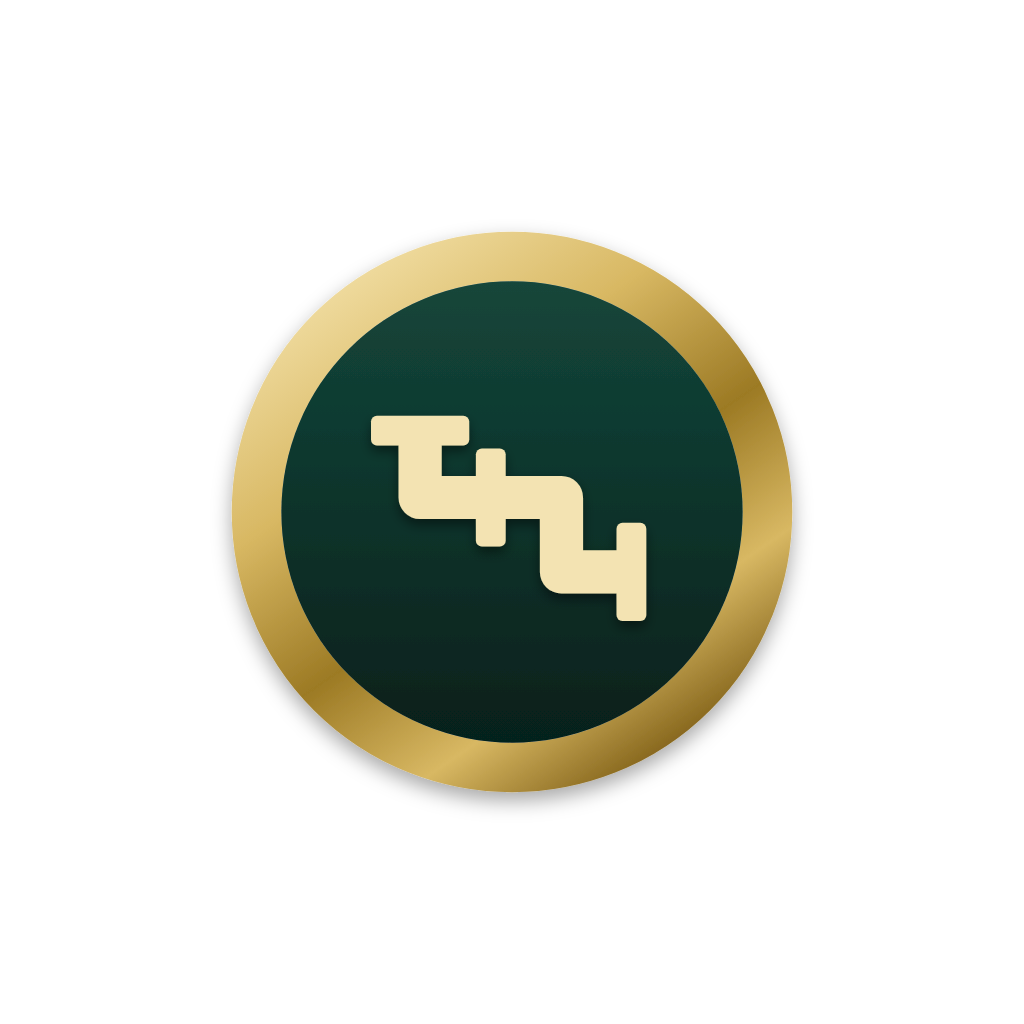
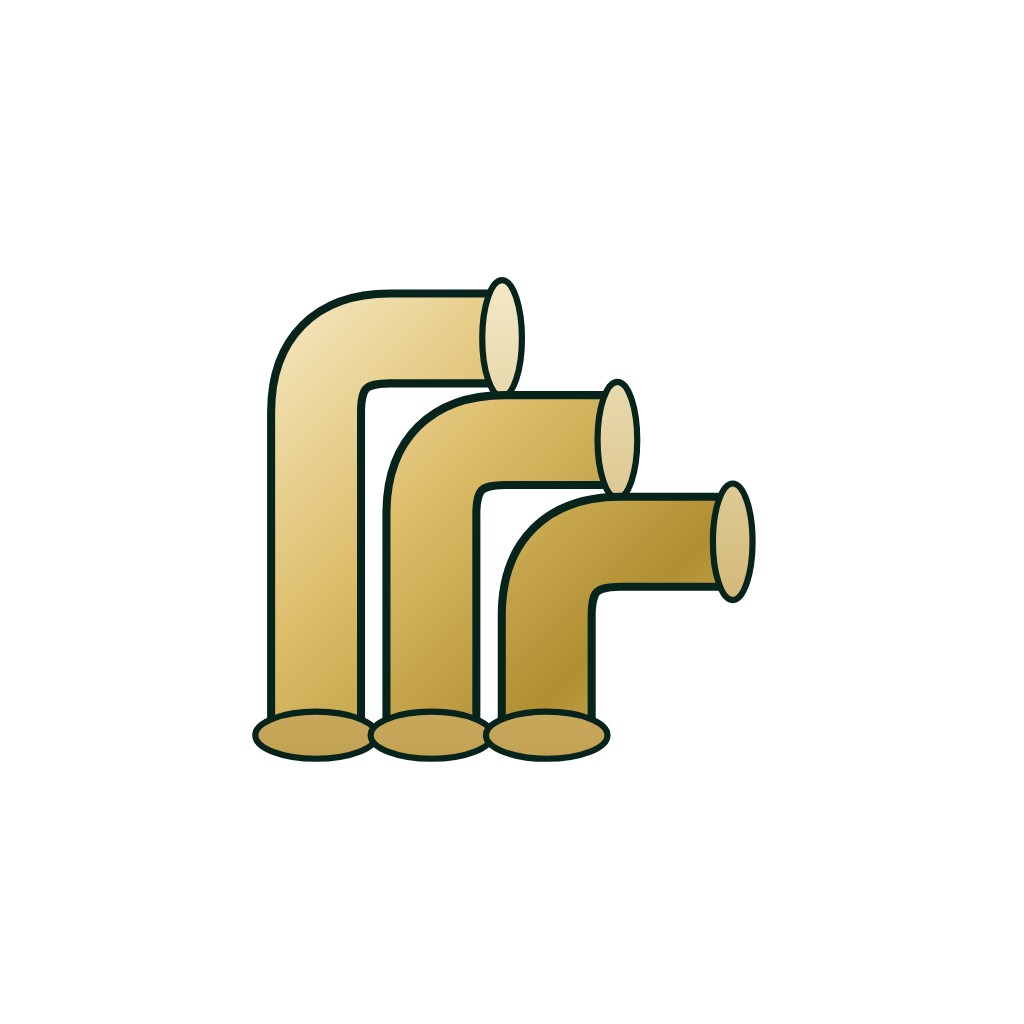
Three runs of pipe on near-black, chosen from a sheet of eight
The mark this replaces was a single spool inside a brass ring, and reading
it back at forty eight pixels it was a staircase. Picked from eight
variants rendered at the sizes a launcher actually uses, because a mark
chosen at a thousand pixels is a mark chosen on evidence nobody sees.

Three runs, each turning ninety, flanged at both open ends, staggered down
the diagonal so they overlap. Three and not two: two bends read as a
plumbing fixture and three read as pipework. Square-on rather than
isometric, which was the variant expected to win — the app draws in
isometric, so the icon matching it seemed obvious — and which lost, because
at forty eight pixels an isometric run has no vertical to anchor it and the
three collapse into one gold smear.

Brass on a near-black field rather than on the emerald. At small sizes a
mid-green ground and a gold glyph start to share a value and the mark goes
soft. The emerald survives as the top of the field gradient, so the icon
still belongs to the app without paying for it in contrast.

Each run carries a dark outline under its brass. That is what stops the
three merging where they overlap, and it is most of the machined look.

Checked at 144, 96, 64 and 48 on a light and a dark home screen, and the
adaptive foreground checked through all three Android mask shapes at the
real 108 over 72 crop rather than at face value — an earlier check that
composited the foreground without that crop made it look half the size it
renders at.
[…]

Changed region(s): [[0.2188, 0.2188, 0.7812, 0.8125]]

diff --git a/tools/mark.js b/tools/mark.js
@@ -3,78 +3,66 @@
 // What a man sees on his home screen before he has any reason to care. It has
 // one job: look like a tool somebody paid for, at the size of a thumbnail.
 //
-// Three decisions.
+// Three runs of pipe, each turning ninety and flanged at both open ends,
+// staggered down the diagonal so they overlap and read as a rack rather than
+// as one part. Three and not two: two bends read as a plumbing fixture, three
+// reads as pipework. Drawn square-on rather than isometric, because at forty
+// eight pixels an isometric run has no vertical to anchor it and the three
+// collapse into one gold smear — measured, not assumed.
 //
-// The glyph is a spool — a run, two ninety degree elbows, cut ends. Not a
-// wrench, not a gauge, not a generic hard hat. The thing the app is for, drawn
-// the way the app draws it, so the icon and the first screen agree.
+// Brass on a near-black field. The field is nearly black rather than emerald
+// so the brass separates at small sizes, where a mid-green ground and a gold
+// glyph start to share a value. The emerald survives as the top of the field
+// gradient, which keeps the icon and the app the same family without costing
+// the contrast.
 //
-// It is gold on deep emerald with a gold rule, because that reads as brass on
-// green at any size and because it is the only combination in the palette that
-// survives being shrunk to forty eight pixels. A thin outline mark disappears
-// there; a heavy one does not.
-//
-// And the ring is a gradient across the gold ramp rather than a flat fill, so
-// the edge catches the way a machined edge catches. That is the whole of the
-// "expensive" impression and it costs four stops.
+// Every fill is a gradient across the brass ramp, and every run carries a dark
+// outline under it. That outline is what stops the three runs merging where
+// they overlap, and it is the whole of the "machined" impression.
 
-const RING_OUT = 452;
-const RING_IN = 372;
-const SW = 58;
-const CAP_L = 132;
-const CAP_T = 40;
+const SW = 132;
+const COUNT = 3;
+const STEP_X = 186;
+const STEP_Y = 164;
+const X0 = 196;
+const Y0 = 232;
+const REACH = 300;
+const DROP = 640;
 
-/** A three leg spool: east, up, north — the one everybody draws first. */
-const RUN = 'M0,0 L0,90 L190,90 L190,190 L284,190';
-
-const capH = (x, y) => `<rect x="${x - CAP_L / 2}" y="${y - CAP_T / 2}" width="${CAP_L}" height="${CAP_T}" rx="8"/>`;
-const capV = (x, y) => `<rect x="${x - CAP_T / 2}" y="${y - CAP_L / 2}" width="${CAP_T}" height="${CAP_L}" rx="8"/>`;
-
-const glyphBody = (fill) => `
-  <g fill="${fill}">
-    <path d="${RUN}" fill="none" stroke="${fill}" stroke-width="${SW}" stroke-linejoin="round" stroke-linecap="butt"/>
-    ${capH(0, 0)}${capV(95, 90)}${capV(284, 190)}
+/** One run: up the page, turning ninety to the right, flanged at both ends. */
+const run = (x, y, drop) => `
+  <g>
+    <path d="M${x},${y + drop} L${x},${y + SW * 0.9} Q${x},${y} ${x + SW * 0.9},${y} L${x + REACH},${y}"
+          fill="none" stroke="#06231C" stroke-width="${SW + 26}"/>
+    <path d="M${x},${y + drop} L${x},${y + SW * 0.9} Q${x},${y} ${x + SW * 0.9},${y} L${x + REACH},${y}"
+          fill="none" stroke="url(#brass)" stroke-width="${SW}"/>
+    <ellipse cx="${x}" cy="${y + drop}" rx="${SW / 2 + 32}" ry="38"
+             fill="url(#flange)" stroke="#06231C" stroke-width="10"/>
+    <ellipse cx="${x + REACH}" cy="${y}" rx="32" ry="${SW / 2 + 28}"
+             fill="url(#flange)" stroke="#06231C" stroke-width="10"/>
   </g>`;
 
-const CX = 123.5;
-const CY = 109.5;
-const GLYPH_SCALE = 1.2;
-
-const ART = `
-  <g filter="url(#lift)">
-    <circle cx="512" cy="512" r="${(RING_OUT + RING_IN) / 2}" fill="none"
-            stroke="url(#ring)" stroke-width="${RING_OUT - RING_IN}"/>
-    <circle cx="512" cy="512" r="${RING_IN}" fill="url(#field)"/>
-  </g>
-  <g transform="translate(512,512) scale(${GLYPH_SCALE}) translate(${-CX},${-CY})" filter="url(#drop)">
-    ${glyphBody('url(#brass)')}
-  </g>`;
+const ART = Array.from({ length: COUNT }, (_, i) =>
+  run(X0 + i * STEP_X, Y0 + i * STEP_Y, DROP - i * STEP_Y)
+).join('');
 
 export const MARK = (bg, artScale = 1) => `
 <svg xmlns="http://www.w3.org/2000/svg" width="1024" height="1024" viewBox="0 0 1024 1024">
   <defs>
-    <linearGradient id="ring" gradientUnits="userSpaceOnUse" x1="250" y1="120" x2="790" y2="910">
-      <stop offset="0" stop-color="#F0DCA0"/>
-      <stop offset="0.28" stop-color="#D8B863"/>
-      <stop offset="0.55" stop-color="#9C7A24"/>
-      <stop offset="0.78" stop-color="#D8B863"/>
-      <stop offset="1" stop-color="#7A5A12"/>
+    <linearGradient id="ink" x1="512" y1="0" x2="512" y2="1024" gradientUnits="userSpaceOnUse">
+      <stop offset="0" stop-color="#0A2018"/>
+      <stop offset="1" stop-color="#010806"/>
     </linearGradient>
-    <linearGradient id="field" gradientUnits="userSpaceOnUse" x1="512" y1="140" x2="512" y2="884">
-      <stop offset="0" stop-color="#14463A"/>
-      <stop offset="1" stop-color="#06201B"/>
+    <linearGradient id="brass" x1="150" y1="150" x2="900" y2="900" gradientUnits="userSpaceOnUse">
+      <stop offset="0" stop-color="#F6E9C2"/>
+      <stop offset="0.38" stop-color="#DCBC68"/>
+      <stop offset="0.72" stop-color="#B08F32"/>
+      <stop offset="1" stop-color="#E0C176"/>
     </linearGradient>
-    <linearGradient id="brass" gradientUnits="userSpaceOnUse" x1="300" y1="300" x2="740" y2="720">
-      <stop offset="0" stop-color="#F3E3B2"/>
-      <stop offset="0.45" stop-color="#D8B863"/>
-      <stop offset="1" stop-color="#A9861F"/>
+    <linearGradient id="flange" x1="0" y1="0" x2="0" y2="1024" gradientUnits="userSpaceOnUse">
+      <stop offset="0" stop-color="#FCF5DC"/>
+      <stop offset="1" stop-color="#BB9740"/>
     </linearGradient>
-    <filter id="lift" x="-20%" y="-20%" width="140%" height="140%">
-      <feDropShadow dx="0" dy="14" stdDeviation="16" flood-color="#02100D" flood-opacity="0.34"/>
-    </filter>
-    <filter id="drop" x="-25%" y="-25%" width="150%" height="150%">
-      <feDropShadow dx="0" dy="8" stdDeviation="8" flood-color="#02100D" flood-opacity="0.45"/>
-    </filter>
   </defs>
   ${bg}
   <g transform="translate(512,512) scale(${artScale}) translate(-512,-512)">${ART}</g>
